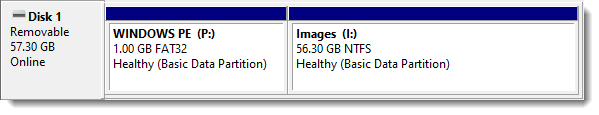
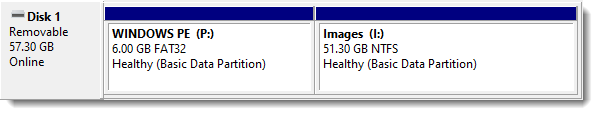
Updates

diff --git a/docs/windows/windows11-arm/windows11arm-on-opi5.md b/docs/windows/windows11-arm/windows11arm-on-opi5.md
@@ -1,7 +1,7 @@
 ---
 author: 
   - Brian Knackstedt
-Date: 2024-06-30
+Date: 2024-12-01
 ---
 <div style="text-align: right"> last updated: {{ git_revision_date_localized }} </div>
 
@@ -99,20 +99,25 @@ This guide describes how to install the latest Windows 11 ARM image on an Orange
 
 Driver download posts are pinned in the #development discord channel
 
-- Download and extract RK3588 signed drivers
-	- [Current build (Downloads expire after 90 days)](https://github.com/worproject/Rockchip-Windows-Drivers/actions/workflows/build.yml?query=branch%3Amaster)
+- Download RK3588 signed driver zip file (rk3588_drivers-v2.zip)
 	- [Stable build](https://discord.com/channels/1082772881735438346/1082848823233216532/1236925998696763392)
-- Download updated storage driver (pdb, inf, and sys)
-	- [Current build](https://github.com/worproject/Rockchip-Windows-Drivers/tree/storportDriver/drivers/storage)
+	- [Release build (Downloads expire after 90 days)](https://github.com/worproject/Rockchip-Windows-Drivers/actions/workflows/build.yml?query=branch%3Amaster)
+
+- Download updated storage driver (pdb, inf, and sys) to a folder named stornvme_storahci
+	- [Release build](https://github.com/worproject/Rockchip-Windows-Drivers/tree/storportDriver/drivers/storage)
+
 - Remove _ncc from file names (example rename stornvme_ncc.sys to stornvme.sys)
-- Add updated drivers to rk3588_drivers-v2.zip file
+
+- Edit all inf files in notepad and remove _ncc from file names
+
+- Add stornvme_storahci folder to rk3588_drivers-v2.zip file using 7-Zip
 
 ## **Download Windows 11 arm64 release package**
 
 - Open [uupdump](https://uupdump.net)
 
-- Imager method: From the menu, select Windows 11 > 23H2 > latest arm64 build.
-- WinPE method: Click arm64 button, I typically choose the latest public release build
+- Option 1 (Windows 11 23H2 or earlier) - Imager method: From the menu, select Windows 11 > 23H2 > latest arm64 build.
+- Option 2 (Windows 11 24H2 or later) - WinPE method: Click arm64 button, I typically choose the latest public release build
 	
 	![uupdump-arch](assets/uupdump-arch.png)	
 
@@ -130,12 +135,22 @@ Driver download posts are pinned in the #development discord channel
 
 - Extract package to a folder that does not contain spaces in the path. Example: C:\ISO
 
+- Extract rk3588_drivers-v2.zip to C:\ISO\Drivers\ALL
+
+- Edit C:\ISO\ConvertConfig.ini with Notepad
+
+	``` text
+	AddUpdates   =1
+	AddDrivers   =1
+	```
+
 ## **Generate Windows ISO**
 
 - Run `uup_download_windows.cmd`
+
 - Wait for files to be downloaded, processed, and ISO generated. Takes ~60-minutes.
 
-## **Install Windows onto NVMe Drive using Imager**
+## **Option 1: Install Windows onto NVMe Drive using Imager**
 
 - Download and extract v2.3.1 or later of the [imager](https://worproject.com/downloads#windows-on-raspberry-imager)
 
@@ -165,39 +180,122 @@ Driver download posts are pinned in the #development discord channel
 
 - Complete the OOBE process
 
-## **Install Windows using WinPE**
+## **Option 2: Install Windows 11 24H2 or later using WinPE**
 
 - Download and extract v1.1.0 or later of the [PE-based installer](https://worproject.com/downloads#windows-on-raspberry-pe-based-installer)
+
 	!!!note
 		Ignore that it says Raspberry. This was originally built for Raspberry Pi devices, but development has been extended to support Orange Pi devices)
 
-- Plug a separate 8+ GB USB drive into your PC (This is for the installation media and not the NVMe drive)
-- Use DiskPart to prepare the partitions. Where `<disk number>` is the listed number of the external USB hard drive.
+- Plug a separate 16+ GB USB drive into your PC (This is for the installation media and not the NVMe drive)
+
+- Download latest [rufus portable](https://rufus.ie/en/#download)
+
+- Open Rufus as an Administrator, verify USB drive was detected, and drag ISO onto Rufus app
+
+- Click Start
+
+- Check both remove requirements and both disable options, then click OK
+
+### **Update Drivers**
+
+- Open command prompt as an Administrator and run:
+
 	``` text
-	diskpart
-	list disk
-	select <disk number>
-	clean
-	rem === Create the Windows PE partition. ===
-	create partition primary size=1024
-	format quick fs=fat32 label="Windows PE"
-	assign letter=P
-	active
-	rem === Create a partition for images ===
-	create partition primary
-	format fs=ntfs quick label="Images"
-	assign letter=I
-	list vol
-	exit
+	md C:\ISO\Offline
+	md C:\ISO\Offline_winre
+	```
+	``` text
+	REM *** Replace stornvme.sys and storahci.sys in boot.wim index 2
+	Dism /Mount-Image /ImageFile:D:\sources\boot.wim /Index:2 /mountDir:C:\ISO\Offline
+
+	takeown /f C:\ISO\Offline\Windows\system32\drivers\stornvme.sys
+	icacls C:\ISO\Offline\Windows\system32\drivers\stornvme.sys /grant %username%:F
+	Ren C:\ISO\Offline\Windows\system32\drivers\stornvme.sys stornvme.sys.orig
+	Copy C:\ISO\drivers\ALL\stornvme_storahci\stornvme.* C:\ISO\Offline\Windows\system32\drivers /Y
+
+	takeown /f C:\ISO\Offline\Windows\system32\drivers\storahci.sys
+	icacls C:\ISO\Offline\Windows\system32\drivers\storahci.sys /grant %username%:F
+	Ren C:\ISO\Offline\Windows\system32\drivers\storahci.sys storahci.sys.orig
+	Copy C:\ISO\drivers\ALL\stornvme_storahci\storahci.* C:\ISO\Offline\Windows\system32\drivers /Y
+
+	Dism /Unmount-Image /mountDir:C:\ISO\Offline /Commit
+	```
+	``` text
+	REM *** Replace stornvme.sys and storahci.sys in install.wim index 1 and winre.wim
+	Dism /Mount-Image /ImageFile:D:\sources\install.wim /Index:1 /mountDir:C:\ISO\Offline
+
+	takeown /f C:\ISO\Offline\Windows\system32\drivers\stornvme.sys
+	icacls C:\ISO\Offline\Windows\system32\drivers\stornvme.sys /grant %username%:F
+	Ren C:\ISO\Offline\Windows\system32\drivers\stornvme.sys stornvme.sys.orig
+	Copy C:\ISO\drivers\ALL\stornvme_storahci\stornvme.* C:\ISO\Offline\Windows\system32\drivers /Y
+
+	takeown /f C:\ISO\Offline\Windows\system32\drivers\storahci.sys
+	icacls C:\ISO\Offline\Windows\system32\drivers\storahci.sys /grant %username%:F
+	Ren C:\ISO\Offline\Windows\system32\drivers\storahci.sys storahci.sys.orig
+	Copy C:\ISO\drivers\ALL\stornvme_storahci\storahci.* C:\ISO\Offline\Windows\system32\drivers /Y
+
+	REM *** Replace stornvme.sys and storahci.sys in winre.wim
+	Dism /Mount-Image /ImageFile:C:\ISO\Offline\windows\system32\recovery\winre.wim /Index:1 /mountDir:C:\ISO\Offline_winre
+	Dism /Add-Driver /Image:C:\ISO\Offline_winre /Driver:C:\ISO\drivers\ALL /Recurse /ForceUnsigned
+	Dism /Unmount-Image /mountDir:C:\ISO\Offline_winre /Commit
+
+	Dism /Cleanup-Image /Image=C:\ISO\Offline /StartComponentCleanup /ResetBase /ScratchDir:C:\Windows\temp
+
+	Dism /Unmount-Image /mountDir:C:\ISO\Offline /Commit
 	```
 
-	![usb-partition-scheme](assets/usb-partition-scheme.png)
+---
+- Set up the boot files
+	```batch
+	BCDboot P:\Windows /s P: /f UEFI
+	```
 
-- 
+
+- Copy UEFI firmware
+	- Download v1.39 or later [UEFI firmware](https://github.com/pftf/RPi3/releases)
+
+	- Extract `RPi3_UEFI_Firmware_v1.39.zip` to P:\
+
+---
+
+### **Windows Setup**
+
+- Install USB drive into USB hub connected to the OPi5
+
+- Power-on OPi5
+
+- Press ESC to get the boot options
+
+- Select Boot Manager > USB
+
+- You should see the orange pi logo and after 30 seconds a Recovery screen will display
+
+- Press F8 > 7 to disable driver signature enforcement
+
+- Wait for WinPE to load
+
+- Select Windows 11 and check I agree everything will be deleted
+
+- Click I don't have a product key
+
+- Delete all Disk 0 partitions
+
+- Select Disk 0 Unallocated Space and click Next
+
+- Summary: Install Windows 11 Pro, Keep nothing
+
+- Click Install
+
+- Wait for Windows to install, after restart you can remove the USB drive
+
+- ***Currently this is not working and just hangs after restart***
+
 
 ## **Known Issues**
 
-- When booting the loading circle locks up and Windows never loads. After a few power cycles it clears. 
+- When booting the loading circle locks up and Windows never loads. After a few power cycles it clears.
+
 - BSOD when booting. This could be a sign that the storage driver (stornvme.sys) has been overwritten by Windows\Windows Update.
 
 ## **Thank you**
